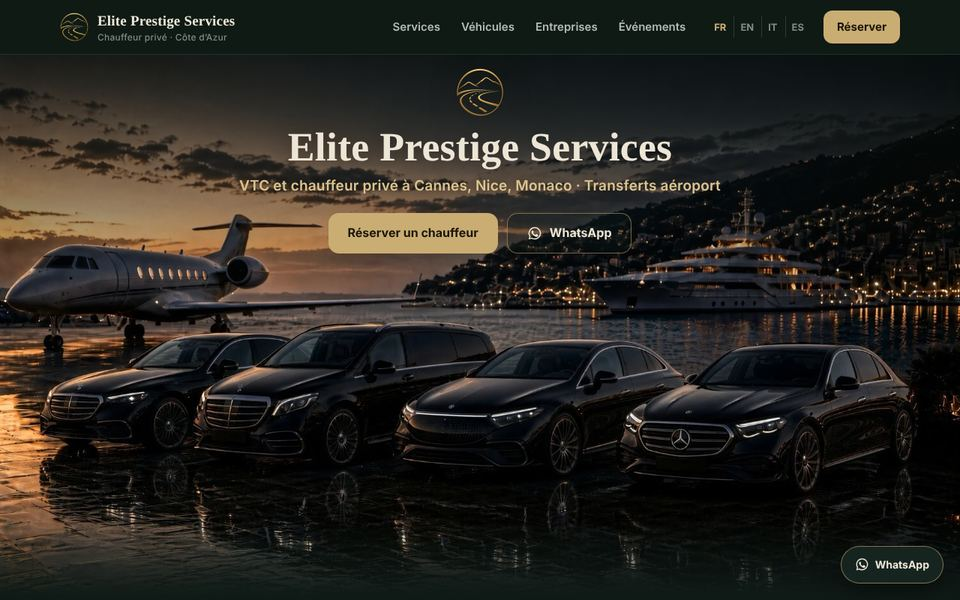
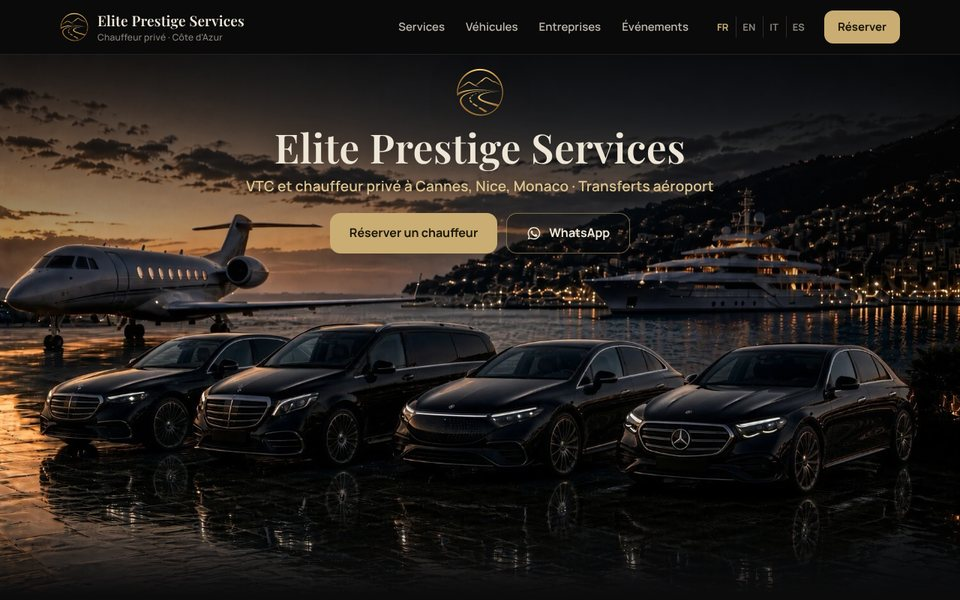
Réalisations : captures EPS refaites en Onyx (noir et or)
Claude-Session: https://claude.ai/code/session_01GYLmuw8fCy96CNoi7GecxR

diff --git a/index.html b/index.html
@@ -604,7 +604,7 @@ html.fv-open,html.fv-open body{overflow:hidden}
     </div>
     <div class="refgrid">
       <a class="ref" href="https://www.elite-prestige-services.fr/" target="_blank" rel="noopener">
-        <div class="refshot"><img src="img/ref-eps-d.jpg" width="960" height="600" alt="Site d'Elite Prestige Services, chauffeur privé sur la Côte d'Azur" loading="lazy"><img class="rm" src="img/ref-eps-m.jpg" width="360" height="720" alt="" loading="lazy"></div>
+        <div class="refshot"><img src="img/ref-eps-d.jpg?v=2" width="960" height="600" alt="Site d'Elite Prestige Services, chauffeur privé sur la Côte d'Azur" loading="lazy"><img class="rm" src="img/ref-eps-m.jpg?v=2" width="360" height="720" alt="" loading="lazy"></div>
         <div class="reftxt"><span class="tag">Chauffeur VTC</span><h3>Elite Prestige Services</h3><p>Chauffeur privé à Cannes, Nice et Monaco. Réservation en ligne, flotte, transferts aéroport, site en 4 langues.</p><span class="lnk">elite-prestige-services.fr ↗</span></div>
       </a>
       <a class="ref" href="https://abracadeal.fr/" target="_blank" rel="noopener">
